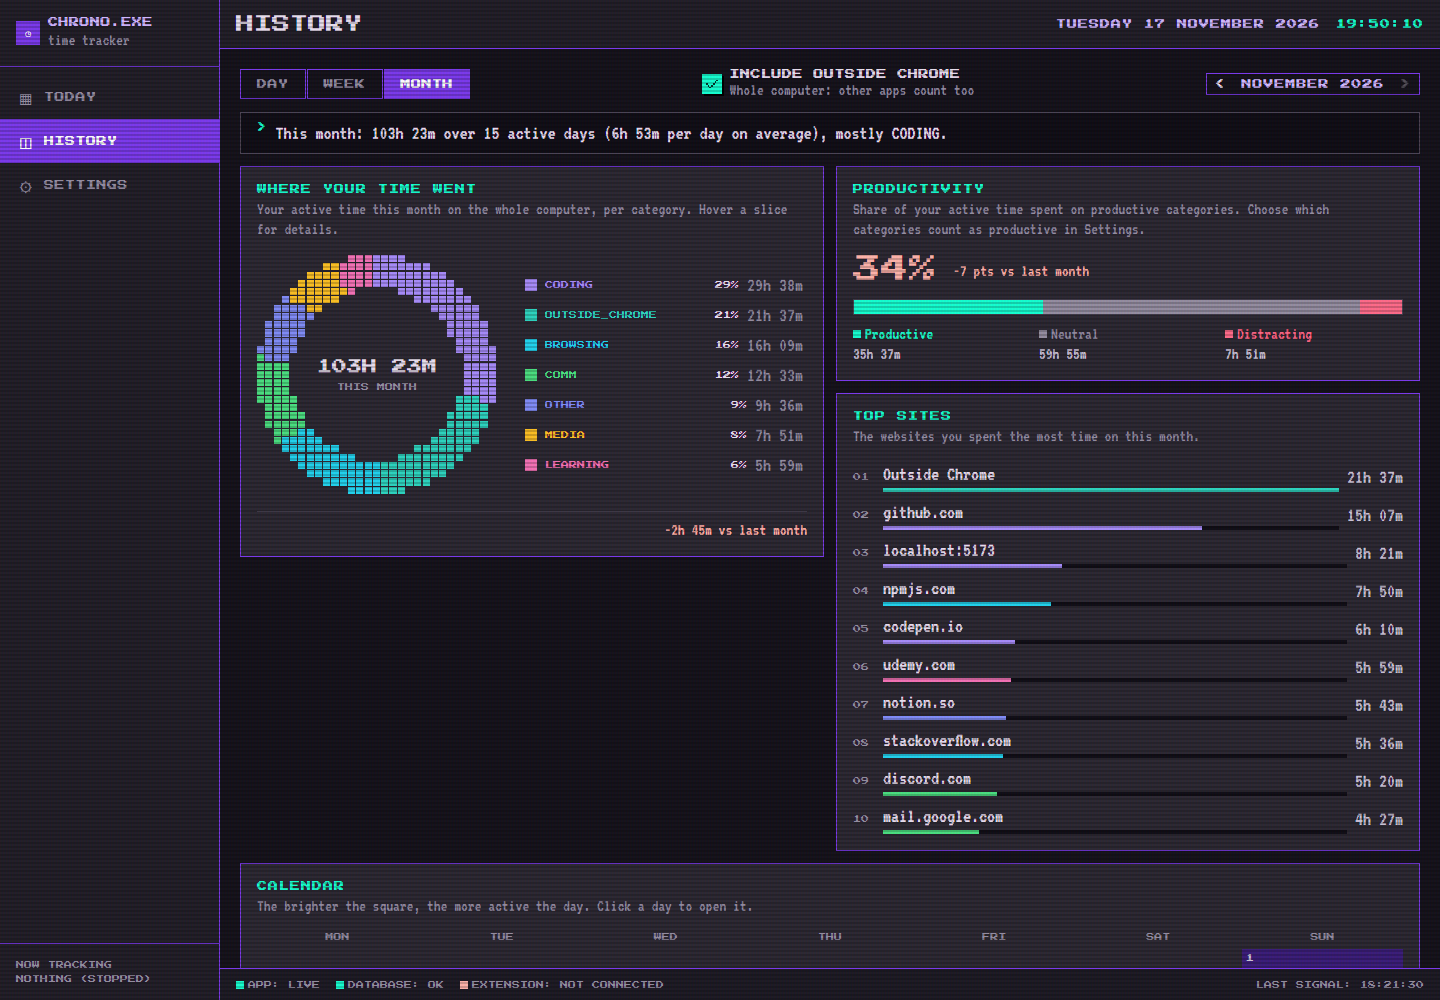
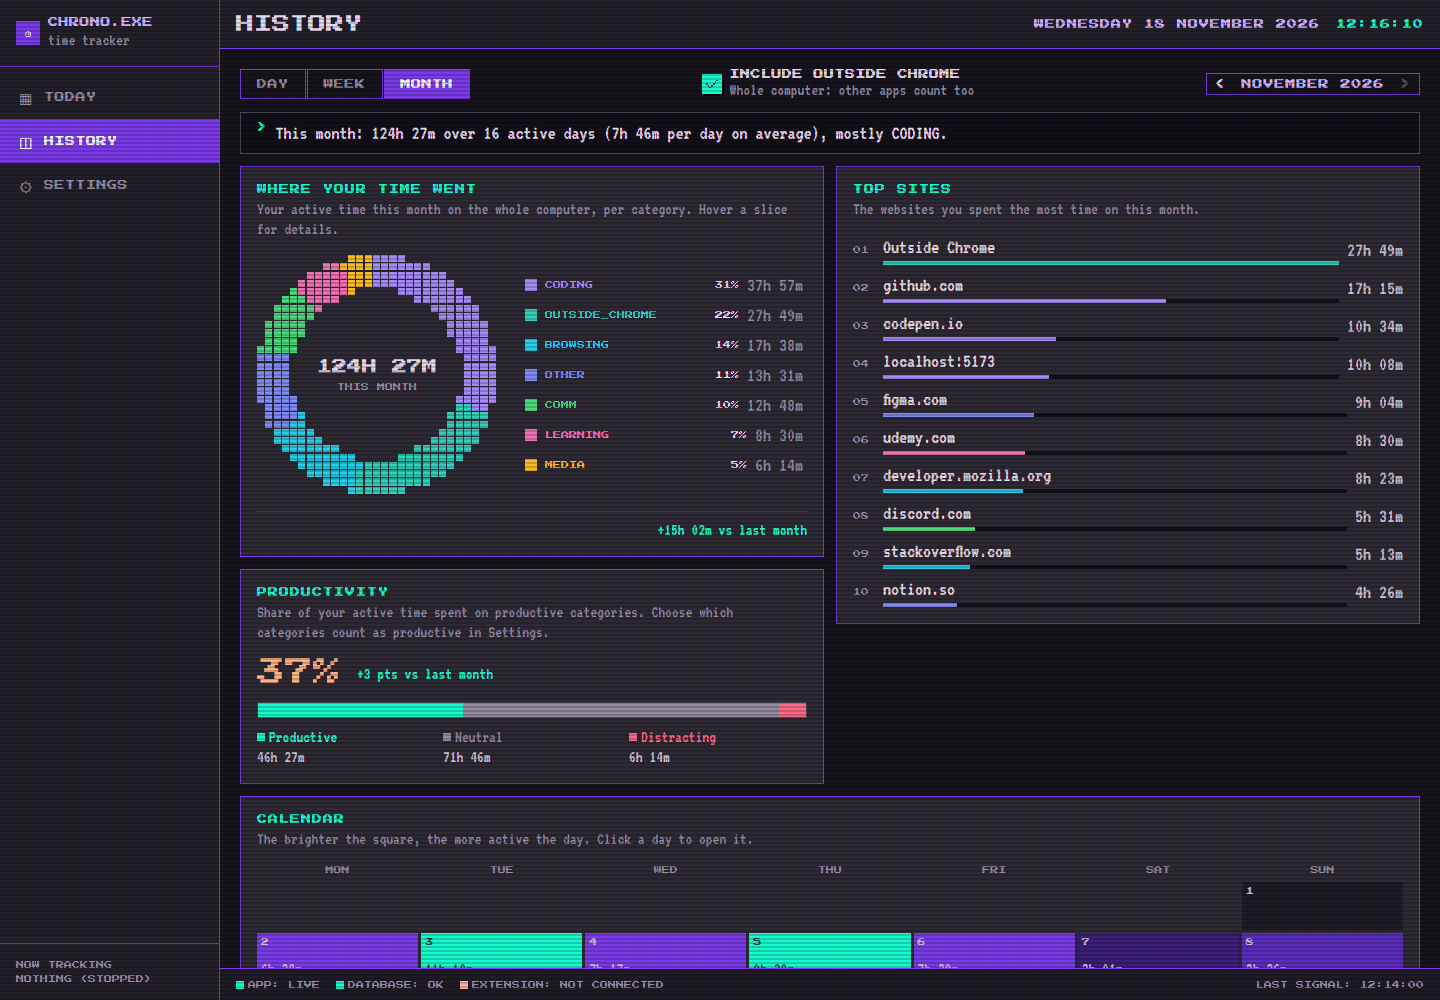
feat(history): productivity under the ring in day, week and month views

diff --git a/src/app/history/page.tsx b/src/app/history/page.tsx
@@ -115,18 +115,20 @@ function DayView({ date, refreshKey, scope }: { date: string; refreshKey: number
       <SummaryLine text={summarizeDay(data, isToday)} />
       <LimitWarnings alerts={data.limitAlerts} />
       <div className="grid grid-cols-1 items-start gap-widget-gutter xl:grid-cols-2">
-        <TimeRing
-          hint={scopeHint("this day", scope)}
-          groups={data.categories}
-          totalSeconds={data.totalTrackedSeconds}
-          centerLabel={scope === "all" ? "ON YOUR PC" : "IN CHROME"}
-          previousSeconds={data.previous.totalTrackedSeconds}
-          previousLabel="the day before"
-          idleSeconds={data.idleSeconds}
-          showLimits
-        />
         <div className="grid content-start gap-widget-gutter">
+          <TimeRing
+            hint={scopeHint("this day", scope)}
+            groups={data.categories}
+            totalSeconds={data.totalTrackedSeconds}
+            centerLabel={scope === "all" ? "ON YOUR PC" : "IN CHROME"}
+            previousSeconds={data.previous.totalTrackedSeconds}
+            previousLabel="the day before"
+            idleSeconds={data.idleSeconds}
+            showLimits
+          />
           <ProductivityCard productivity={data.productivity} previousScore={data.previous.productivityScore} previousLabel="the day before" />
+        </div>
+        <div className="grid content-start gap-widget-gutter">
           <TopSites sites={data.sites} hint="The websites you spent the most time on this day." />
           <BackgroundAudio entries={data.backgroundAudio} />
         </div>
@@ -149,16 +151,18 @@ function WeekView({ date, refreshKey, scope, onSelectDay }: { date: string; refr
     <div className="grid gap-widget-gutter">
       <SummaryLine text={summarizeWeek(data)} />
       <div className="grid grid-cols-1 items-start gap-widget-gutter xl:grid-cols-2">
-        <TimeRing
-          hint={scopeHint("this week", scope)}
-          groups={data.weeklyTotals}
-          totalSeconds={data.totalTrackedSeconds}
-          centerLabel="THIS WEEK"
-          previousSeconds={data.previous.totalTrackedSeconds}
-          previousLabel="last week"
-        />
         <div className="grid content-start gap-widget-gutter">
+          <TimeRing
+            hint={scopeHint("this week", scope)}
+            groups={data.weeklyTotals}
+            totalSeconds={data.totalTrackedSeconds}
+            centerLabel="THIS WEEK"
+            previousSeconds={data.previous.totalTrackedSeconds}
+            previousLabel="last week"
+          />
           <ProductivityCard productivity={data.productivity} previousScore={data.previous.productivityScore} previousLabel="last week" />
+        </div>
+        <div className="grid content-start gap-widget-gutter">
           <TopSites sites={data.sites} hint="The websites you spent the most time on this week." />
         </div>
       </div>
@@ -210,16 +214,18 @@ function MonthView({ date, refreshKey, scope, onSelectDay }: { date: string; ref
     <div className="grid gap-widget-gutter">
       <SummaryLine text={summarizeMonth(data)} />
       <div className="grid grid-cols-1 items-start gap-widget-gutter xl:grid-cols-2">
-        <TimeRing
-          hint={scopeHint("this month", scope)}
-          groups={data.categories}
-          totalSeconds={data.monthlyTotal}
-          centerLabel="THIS MONTH"
-          previousSeconds={data.previous.totalTrackedSeconds}
-          previousLabel="last month"
-        />
         <div className="grid content-start gap-widget-gutter">
+          <TimeRing
+            hint={scopeHint("this month", scope)}
+            groups={data.categories}
+            totalSeconds={data.monthlyTotal}
+            centerLabel="THIS MONTH"
+            previousSeconds={data.previous.totalTrackedSeconds}
+            previousLabel="last month"
+          />
           <ProductivityCard productivity={data.productivity} previousScore={data.previous.productivityScore} previousLabel="last month" />
+        </div>
+        <div className="grid content-start gap-widget-gutter">
           <TopSites sites={data.sites} hint="The websites you spent the most time on this month." />
         </div>
       </div>
